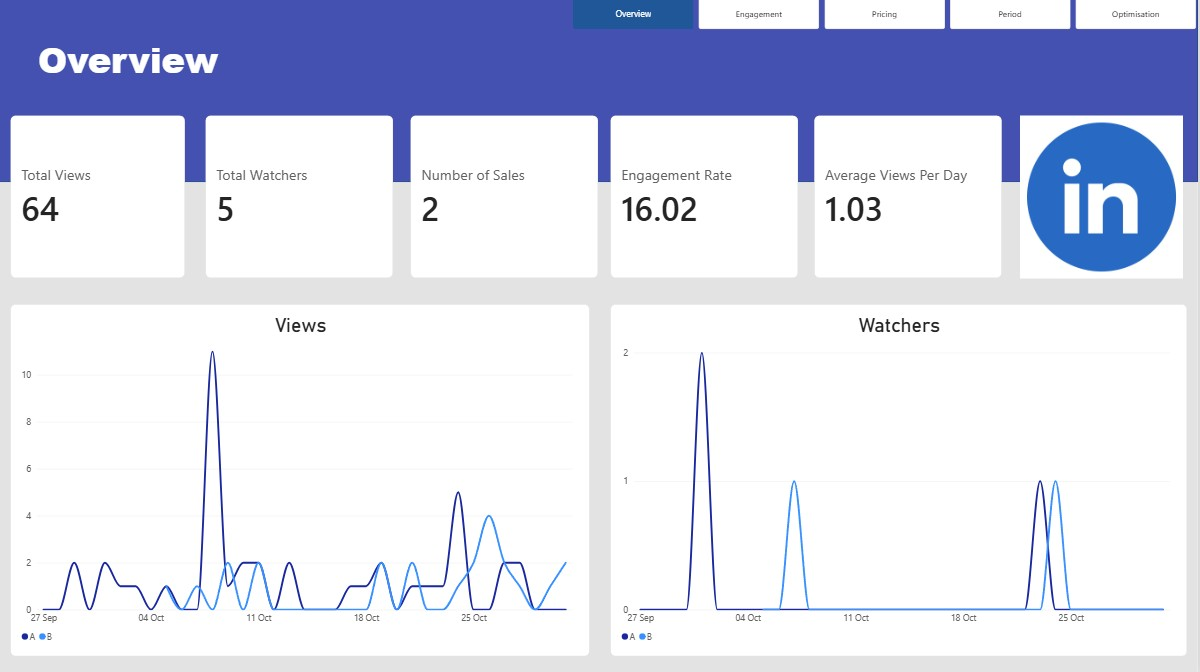
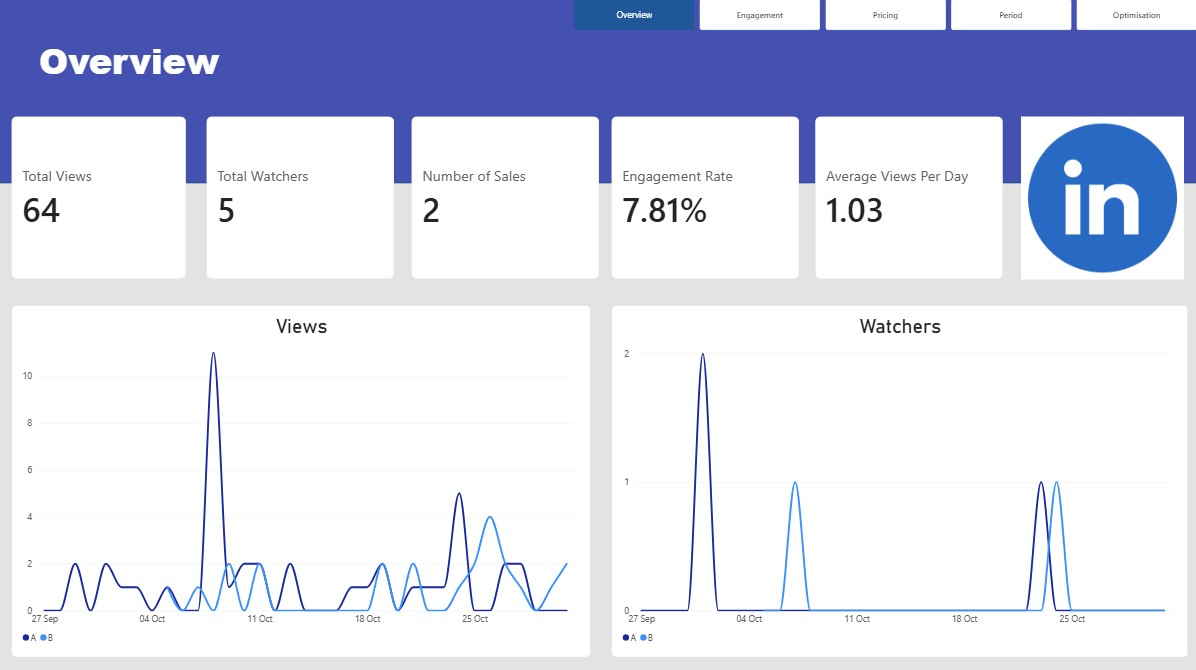
quick update

diff --git a/README.md b/README.md
@@ -7,11 +7,17 @@ Looking into two products I listed on eBay (Product A and Product B), I compare 
 The objective is to understand how modifications to product listings, pricing and sales activity influence customer engagement and listing performance.
 
 Using PostgreSQL and SQL, I collected, organised and analysed listing data to identify patterns in views, watchers and sales. The results were then visualised using Power BI to make comparisons between the two products and identify potential trends.
+
 ### 2. Business Questions
-* Which product generates more customer interest?
-* How does customer engagement change when prices change?
-* When are customers most interested?
-* What changes are followed by increase in customer engagement?
+
+1. Which product generates the highest number of views?
+2. Which product has the highest engagement rate?
+3. How do views and watchers change following listing modifications?
+4. Are price reductions associated with increased views?
+5. Are certain days of the week associated with higher traffic?
+6. Is sales activity associated with changes in listing views?
+7. Which listing modifications show the most promising results?
+
 
 ### 3. Tools & Technologies
 **PostgreSQL :**   Data storage & management
@@ -58,9 +64,11 @@ Both were used interwindingly to investigate relationships between listing modif
 * Calculating average views and watchers by weekday.
 * Comparing Product A and Product B.
 * Calculating customer engagement using watchers relative to views.
-* Identifying listing modificationsand measuring performance before and after changes.
+* Identifying listing modifications and measuring performance before and after changes.
 * Comparing average views and watchers over seven-day periods before and after modifications.
 * Evaluating engagement changes following sales.
+* Calculating watcher-to-view engagement rate:
+  (Total Watchers / Total Views) * 100.
 
 The analysis uses PostgreSQL queries to transform the raw data into datasets suitable for visualisation.
 
@@ -78,13 +86,13 @@ The dashboard focuses on:
 * Relationship between listing changes and customer engagement 
 
 ### Dashboard preview
-![Dashboard](assets/dashboard.jpg)
-![Dashboard2](assets/dashboard2.jpg)
-![Dashboard3](assets/dashboard3.jpg)
-![Dashboard4](assets/dashboard4.jpg)
-![Dashboard5](assets/dashboard5.jpg)
+![Dashboard Overview](assets/dashboard.jpg)
+![Dashboard2 Customer Interest](assets/dashboard2.jpg)
+![Dashboard3 Listing Price and Views](assets/dashboard3.jpg)
+![Dashboard4 When are customers interested](assets/dashboard4.jpg)
+![Dashboard5 Views after modification](assets/dashboard5.jpg)
 
-## 7 Key Findings
+## 7. Key Findings
 
 * Product A generated higher overall traffic and watcher volume. However, Product B achieved a higher watcher-to-view ratio, suggesting stronger relative engagement despite receiving fewer views.
 
@@ -95,15 +103,27 @@ The dashboard focuses on:
 * Overall changes were an impact on views. Making some sort of change seemed to increase average views even if slightly. The biggest factors were price change and sales. After the first sale views shot up and it brought in the most views recorded in a single day, 11 views.
 
 ### 8. Limitations & Future Improvements
-Limitations:
 
-* Dataset only includes 2 products.
-* Data set was only recorded over a span of roughly a month.
-* Limited number of sales. Larger dataset = Higher accuracy.
-* Changes in views and watchers could be influenced by external factors not listed.
-* Product B was listed after product A so less information was gathered over a period of time.
+### Limitations
 
-Future improvements:
+- The analysis is based on two eBay product listings,
+  so the findings may not represent wider marketplace
+  behaviour.
+- The observation period is relatively short.
+- The limited number of sales restricts the ability
+  to identify reliable relationships between sales
+  and listing traffic.
+- Product A and Product B have different listing
+  histories, which may affect comparisons.
+- Changes in views and watchers may be influenced
+  by external factors beyond listing modifications.
+
+Further data collection across a longer period and
+a larger number of products would help validate
+the findings.
+
+
+### Future improvements:
 
 * Collect data over a longer period
 * Add additional products
@@ -115,7 +135,7 @@ This project demonstrates the use of SQL and Power BI to investigate e-commerce 
 By combining daily performance records with listing modification data, the project explores how changes in pricing, listing activity and sales relate to customer engagement.
 
 It also demonstrates the process of collecting, structuring, analysing and visualising data to support data-driven decision-making.
-### Folder Description
+## Folder Description
 * **analysis/**   -   General exploratory analysis
 * **assets/**   - Dashboard screenshots and project images
 * **modification_impact/** - SQL analysing listing changes
@@ -123,4 +143,70 @@ It also demonstrates the process of collecting, structuring, analysing and visua
 * **sales_analysis/**  -  Sales-related analysis
 * **sql_load/**   -  Data loading and preparation
 
+
+## Dataset and Metrics
+
+### Daily Performance
+
+The daily performance dataset records the activity
+of two eBay product listings, Product A and Product B.
+
+It includes:
+- Date
+- Product
+- Views
+- Watchers
+- Listing price
+- Sales
+
+### Listing Changes
+
+The listing changes dataset records modifications
+made to each product listing.
+
+It includes:
+- Modification date
+- Product
+- Modification type
+- Description of the modification
+
+### Key Metrics
+
+| Metric | Calculation |
+|---|---|
+| Total Views | Sum of daily views |
+| Total Watchers | Sum of daily watcher observations, if daily counts |
+| Total Sales | Sum of recorded daily sales |
+| Engagement Rate | Watchers / Views × 100 |
+| Average Views | Total views / number of observations |
+
+
+## SQL Analysis
+
+The project uses PostgreSQL to investigate
+product performance, customer engagement
+and listing optimisation.
+
+| Analysis | Description |
+|---|---|
+| Product Comparison | Compares views, watchers and sales |
+| Engagement Analysis | Calculates product engagement rates |
+| Modification Impact | Compares performance before and after changes |
+| Performance Trends | Investigates weekday performance |
+| Sales Analysis | Examines views around recorded sales |
+| Data Import | Loads CSV data into PostgreSQL |
+
+### SQL Files
+
+- [Product Analysis](analysis)
+- [Modification Analysis](assets)
+- [Performance Trends](performance_trends)
+- [Sales Analysis](sales_analysis)
+- [Data Import](sql_load)
+
+
+
 ### Information
+*Author - Gareth Kwok*
+
+*LinkedIn - https://www.linkedin.com/in/gkhk3/*
